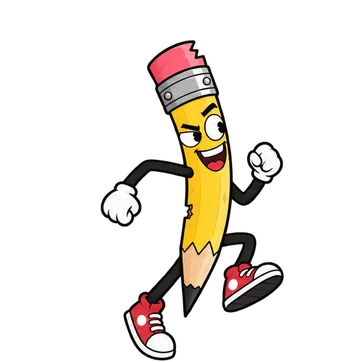
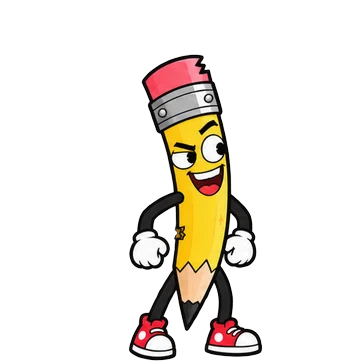
Pencil test: idle, run and jump poses from the new sheets

Changed region(s): [[0.2735, 0.0912, 0.7901, 1.0]]

diff --git a/docs/plans/2026-09-28-pencil-reskin-phase1.md b/docs/plans/2026-09-28-pencil-reskin-phase1.md
@@ -1,0 +1,97 @@
+# Pencil Reskin — Phase 1 (test slice)
+
+**Goal:** Put the new pencil character and a sketchbook world into the game on a test branch, so the owner can judge the new look from screenshots before any full reskin.
+
+**Scope:** visuals only. No gameplay, physics, hitbox, input timing or level-layout changes (project rule: visual polish never touches those). The owner will decide on the hitbox separately. See "Not in this phase".
+
+**Branch:** `pencil-test` (already exists; one commit `a4a7d60` swapped the run cycle using `~/Desktop/Assets/pencil.png`). Do all work there and never merge to `main`. Check it out with `git checkout pencil-test` and make sure the tree is clean first.
+
+**Read first:** `AGENTS.md` (no `as` casts, type aliases, named exports), and memory notes `asset_reskin_workflow.md` (asset slicing/encoding rules) and `feedback_polish_means_visual.md`.
+
+---
+
+## Inputs (all in `~/Desktop/Assets/`)
+
+| What | Where | Notes |
+|---|---|---|
+| Pencil running sheet | `pencil.png` (2172×724, 6 frames, already sliced once) and/or a newer running sheet | The owner added **running, idle and jumping** sheets on 2026-09-28. Their filenames are unknown: run `ls -t ~/Desktop/Assets` and open each new PNG to identify it. |
+| Pencil idle sheet | new file, see above | |
+| Pencil jumping sheet | new file, see above | Map frames to rise / tuck / fall by eye. |
+| Scribble world art | `~/Desktop/Assets/kenney_scribble-platformer/` (Kenney "Scribble Platformer", CC0) | `Preview.png` shows every piece: white doodle shapes with black outlines. Use the individual PNGs (look for a `PNG/` or `Tiles/` folder); pick pieces by comparing against `Preview.png`. |
+
+---
+
+## Task 1: Player sprites
+
+The player is drawn from individual textures in `public/assets/player/`: `player-idle`, `player-run-1..6`, `player-jump-rise`, `player-jump-tuck`, `player-jump-fall`, `player-dance-1..12` (see `PLAYER_TEXTURE_KEYS` in `src/client/game/entities/Player.ts`). Every file is a **362×362** RGBA canvas with the feet on the bottom row. The hitbox math (`PLAYER_FRAME_SIZE = 362`) depends on that, so **keep that canvas exactly**.
+
+1. For each sheet, split the frames by connected component (alpha > 20). Attach small stray components to the nearest large figure. Don't split by fixed columns: feet overlap neighbouring cells and leave slivers.
+2. Scale every frame of **all** sheets by the same factor so the tallest figure is **324 px**. Paste each onto a 362×362 canvas, bottom-aligned, with the pencil's **eraser/head centroid** (the top 15% of the figure) at x = 181, so frames don't jitter horizontally.
+3. Save as lossy WebP (`quality=88, alpha_quality=90`) over:
+   - `player-run-1..6` from the running sheet (6 frames; if it has a different count, use 6 evenly spaced frames);
+   - `player-idle` from the idle sheet (its first/neutral frame);
+   - `player-jump-rise`, `player-jump-tuck`, `player-jump-fall` from the jumping sheet (up / top / down);
+   - `player-dance-1..12`: cycle the idle frames (there's no dance art yet).
+4. Paste all frames side by side on white and **look at the strip**: no slivers of neighbouring frames, same size, no jitter.
+
+The slicing script used for commit `a4a7d60` (run cycle only) was:
+
+```python
+import numpy as np
+from PIL import Image
+from scipy import ndimage
+a=np.array(Image.open(SRC).convert('RGBA')); mask=a[:,:,3]>20
+lab,n=ndimage.label(mask); sizes=ndimage.sum(mask,lab,range(1,n+1))
+big=sorted([i+1 for i,s in enumerate(sizes) if s>20000], key=lambda i: ndimage.center_of_mass(mask,lab,i)[1])
+bx=[ndimage.center_of_mass(mask,lab,i)[1] for i in big]; groups={i:[i] for i in big}
+for i in range(1,n+1):
+    if i in groups: continue
+    cx=ndimage.center_of_mass(mask,lab,i)[1]; groups[big[int(np.argmin([abs(cx-b) for b in bx]))]].append(i)
+# per group: soft=dilate(isin(lab,group),2)&(alpha>0); crop to bbox; head anchor = mean x of top 15% rows
+# scale = 324 / max_height_across_ALL_sheets; paste on 362x362 bottom-aligned, head anchor at x=181
+```
+
+Commit: "Pencil test: idle, run and jump poses from the new sheets".
+
+## Task 2: Paper background, scribble ground and platforms
+
+1. **Lined paper background.** Generate `public/assets/ui/paper-bg.webp`, 512×540 and tileable horizontally:
+   - off-white `#fbf8ef` fill;
+   - pale blue (`#a9c7e8`) horizontal rules every 34 px starting at y = 60;
+   - **no** red margin line, since the background tiles across the whole level.
+
+   The level background is the `'level-background'` texture, tiled in `GameScene.startRun` (`tileSprite(..., 'level-background')`). Find where `Preloader.ts` loads `'level-background'` and point it at the new file. Also remove or neutralise any dark tint/overlay drawn over the background in `startRun` (there's a comment "The background art is busy/saturated enough to compete with hazard…"), so the paper reads as paper. Set `cameras.main.setBackgroundColor` to `#fbf8ef` in GameScene.
+2. **Ground and platforms.** Pick a plain scribble block (top-left of `Preview.png`) for ground and a thinner or plain block for platforms. Find how ground/platform textures are chosen in `src/client/game/objects/ObjectRegistry.ts` and the tile loads in `Preloader.ts`, and swap the texture files. Keep the **display sizes** the code already sets (for example `PLATFORM_DISPLAY_HEIGHT_PX`, one `GRID_CELL_SIZE` = 60 px wide), so collision is unchanged. Keep scribble tiles **lossless** (PNG or lossless WebP).
+3. Spawn and finish: the scribble **door** for the spawn marker and the scribble **flag** for the finish. Swap texture files only; keep the existing display heights (`SPAWN_TOMBSTONE_HEIGHT_PX`, `FINISH_DISPLAY_HEIGHT_PX`) and the finish trigger size.
+4. Where the slime/Halloween pixel effects make no sense on paper (spawn lightning, arcane crackle on the gate), leave them for Phase 2. Only remove something here if it visibly breaks the screenshot.
+
+Commit: "Pencil test: lined paper background and scribble ground, platforms, door and flag".
+
+## Task 3: Traps + optional red tint
+
+1. **Saw → scribble gear** (the cog in `Preview.png`, row 1). **Candle → scribble spikes** (the pair of triangles, row 3). Swap only the texture files/keys these types use in `ObjectRegistry.ts` / `Preloader.ts` (the candle is an animated sheet; a static image is fine for the test, but make sure the anim code doesn't break when the texture has one frame, e.g. by keeping a single-frame anim). Keep the display sizes, so hitboxes are unchanged. Leave bat, ghost, moving saw, falling block and power-ups on their old art.
+2. **Red tint.** Scribble art is white with black outlines. Phaser's default tint multiplies, so `sprite.setTint(0xe53935)` turns the white fill red and keeps the black outline black. Add one constant, `HAZARD_TINT: number | null = 0xe53935`, in `src/client/game/constants.ts`, and apply it to every hazard sprite where hazards are created (LevelLoader/ObjectRegistry), but only when non-null. This is so the owner can compare: take screenshots with the tint on and off (null).
+
+Commit: "Pencil test: scribble gear and spikes, optional red tint for traps".
+
+## Task 4: Screenshots for the owner
+
+1. Run `npm run type-check`, `npm run lint`, `npm run build`. Don't run the full browser suite (the owner asked to keep testing light).
+2. Using the harness in memory `playtest_harness_notes.md` (static server on `dist/client`, Playwright from the repo's `node_modules`, `window.__PHASER_GAME__`; scratch files **outside** the repo), open `game.html?level=meat-grinder` with `localStorage['cursed:tutorial-done']='1'`. Route `/api/levels/meat-grinder` to the seed level from `src/server/core/seedLevels.ts` and every other `/api/*` to 404. Click `#game-menu-play` and press Space to start.
+3. Take screenshots at **390×844** and **844×390**: one mid-run, one mid-jump, one next to a trap. Take them with `HAZARD_TINT` on, then rebuild with it off and take one comparison shot.
+4. **Look at every screenshot yourself** before handing off. Check that the pencil is fully visible, the ground sits flush under its feet, traps are clearly distinguishable from ground, and nothing is cut off.
+5. Report to the owner: the screenshot paths, what changed, what still has old art (bat, ghost, power-ups, VFX, UI colours), and a clear question: tint on or off?
+
+---
+
+## Not in this phase (Phase 2, only if the owner likes it)
+
+- Stand-ins for the bat, ghost, moving saw, falling block and power-ups.
+- Death animations and VFX restyled from pixel explosions to scribble/crumple.
+- UI palette and fonts, feed card and menu art, tutorial logo, death-skull markers → pencil ✗.
+- Music and SFX.
+- Name and branding.
+
+**Owner decisions still open:**
+- **The hitbox.** The pencil is thinner than the old robot, but `HITBOX_WIDTH = 0.7` in `Player.ts` is sized for the robot. Do **not** change it without the owner's go-ahead: it changes every level's difficulty.
+- Keep the name "CURSED" or rename.
